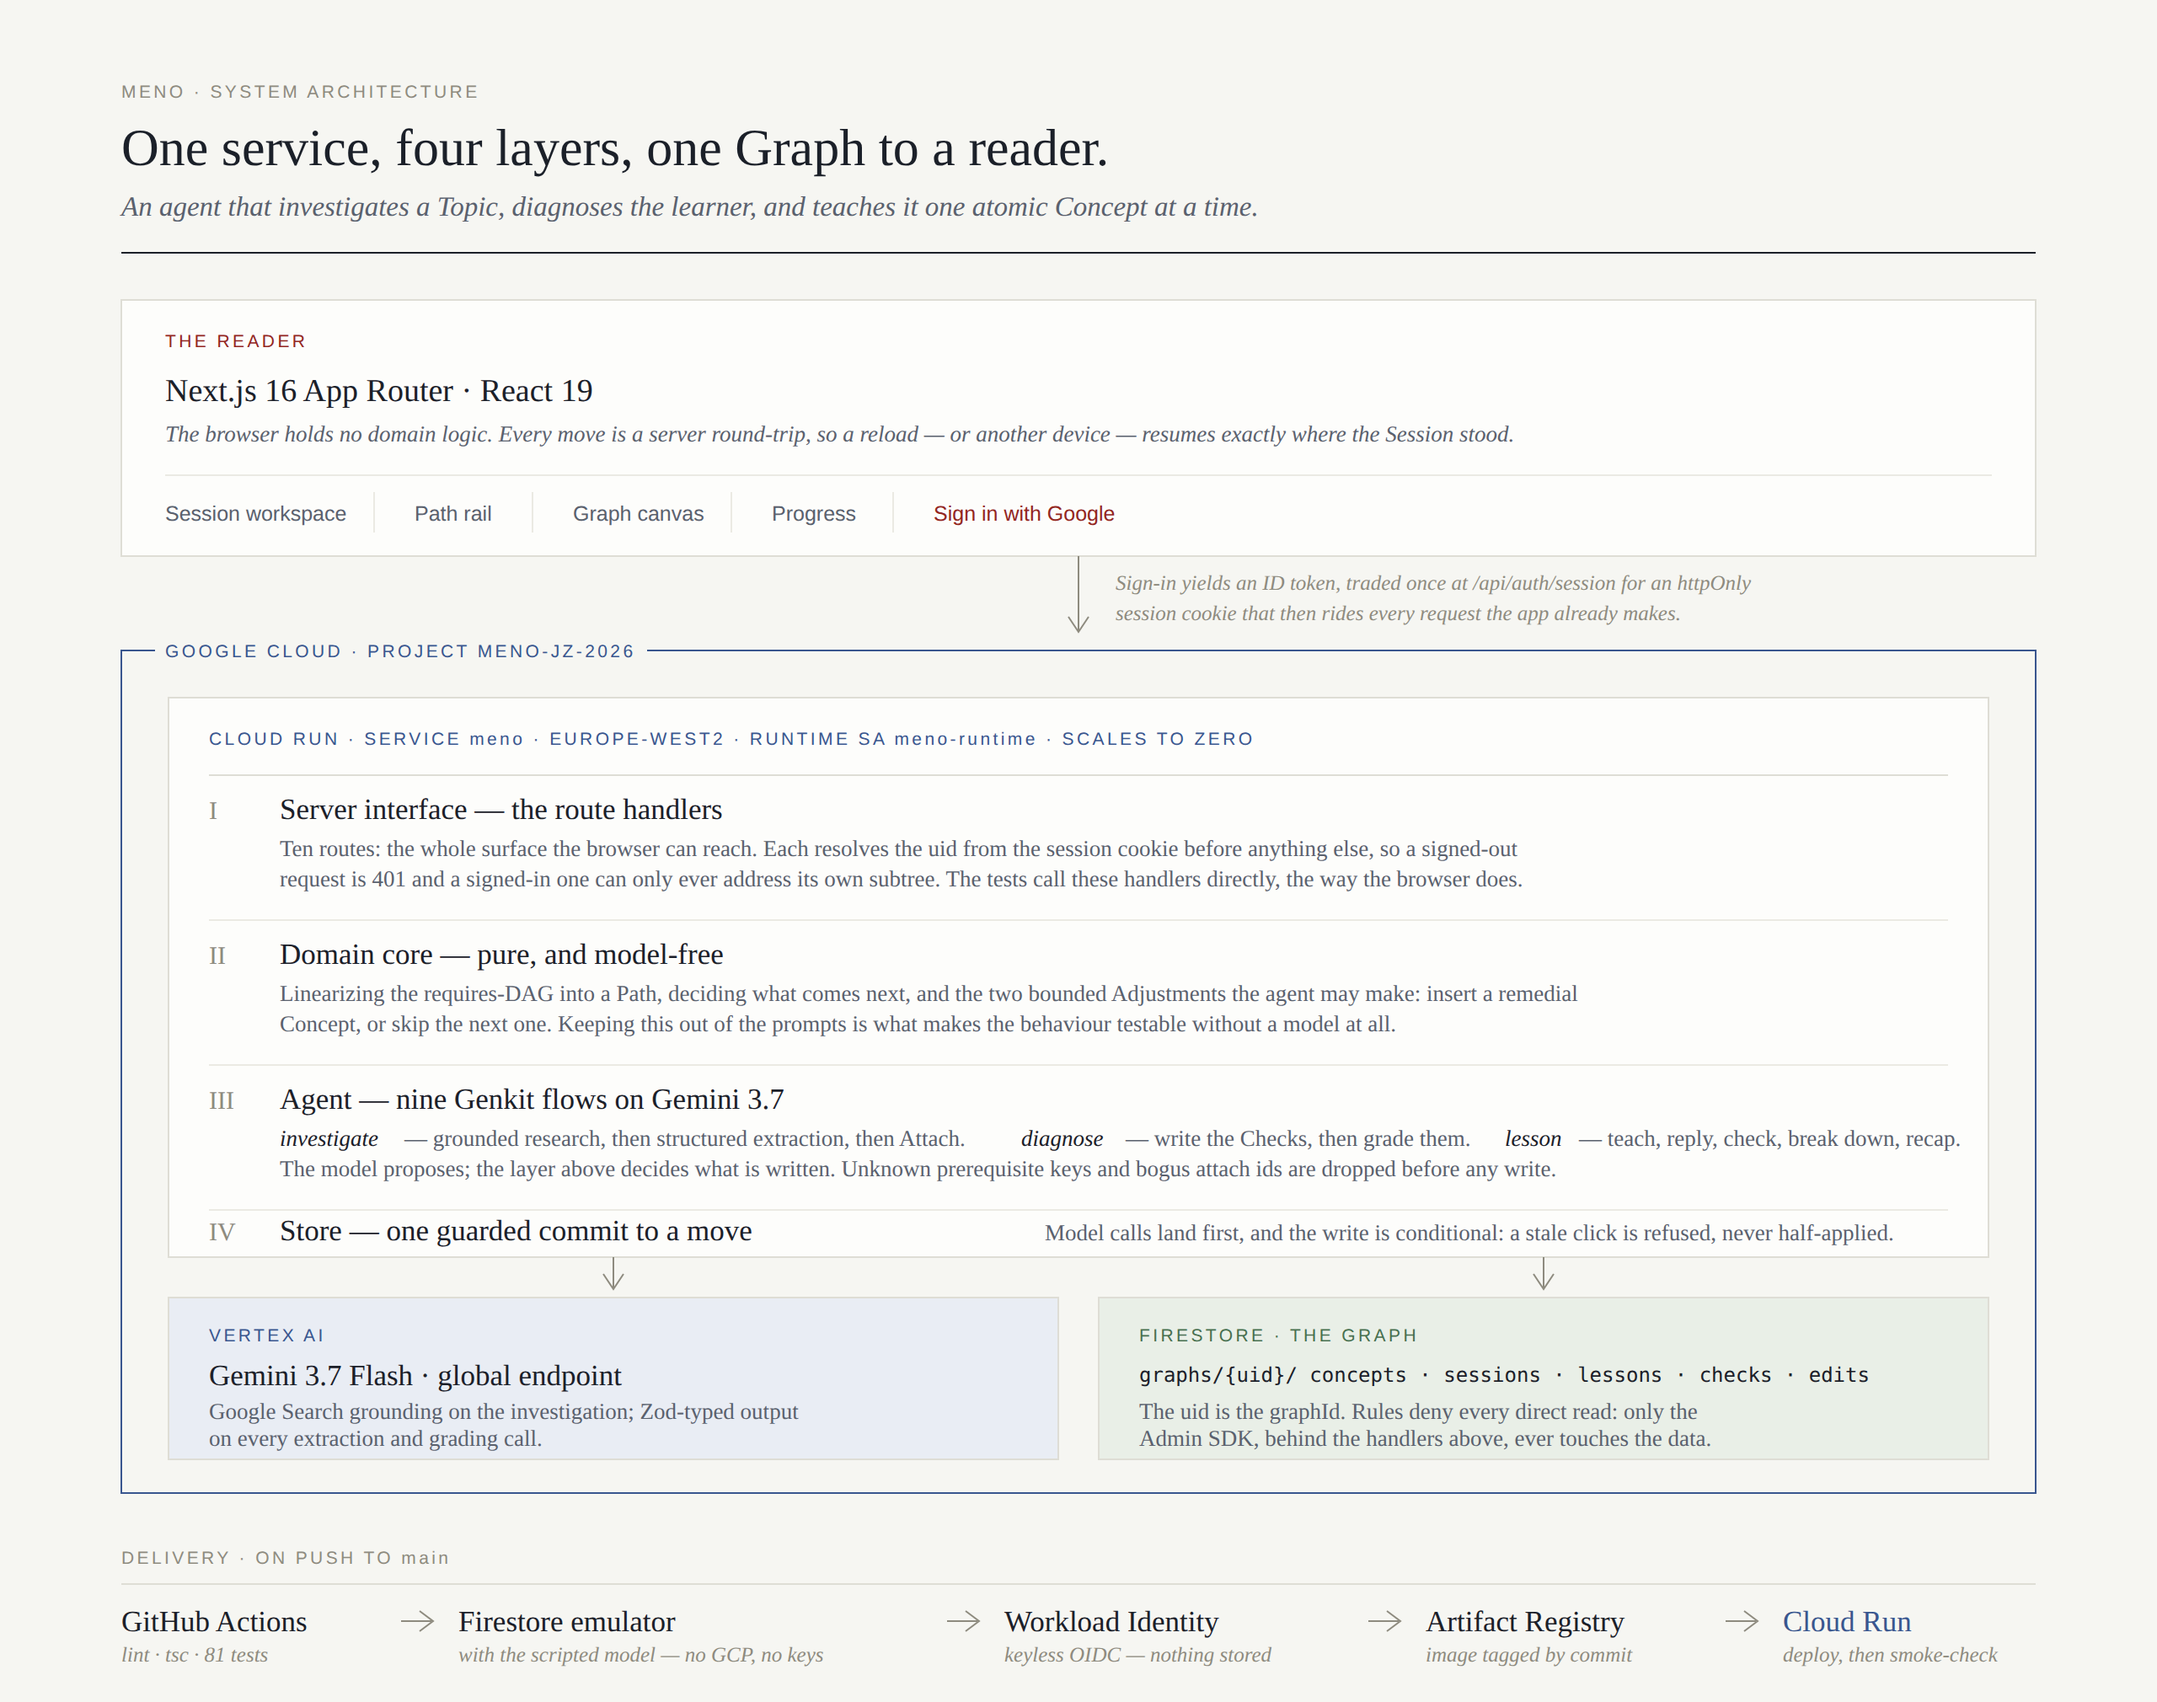
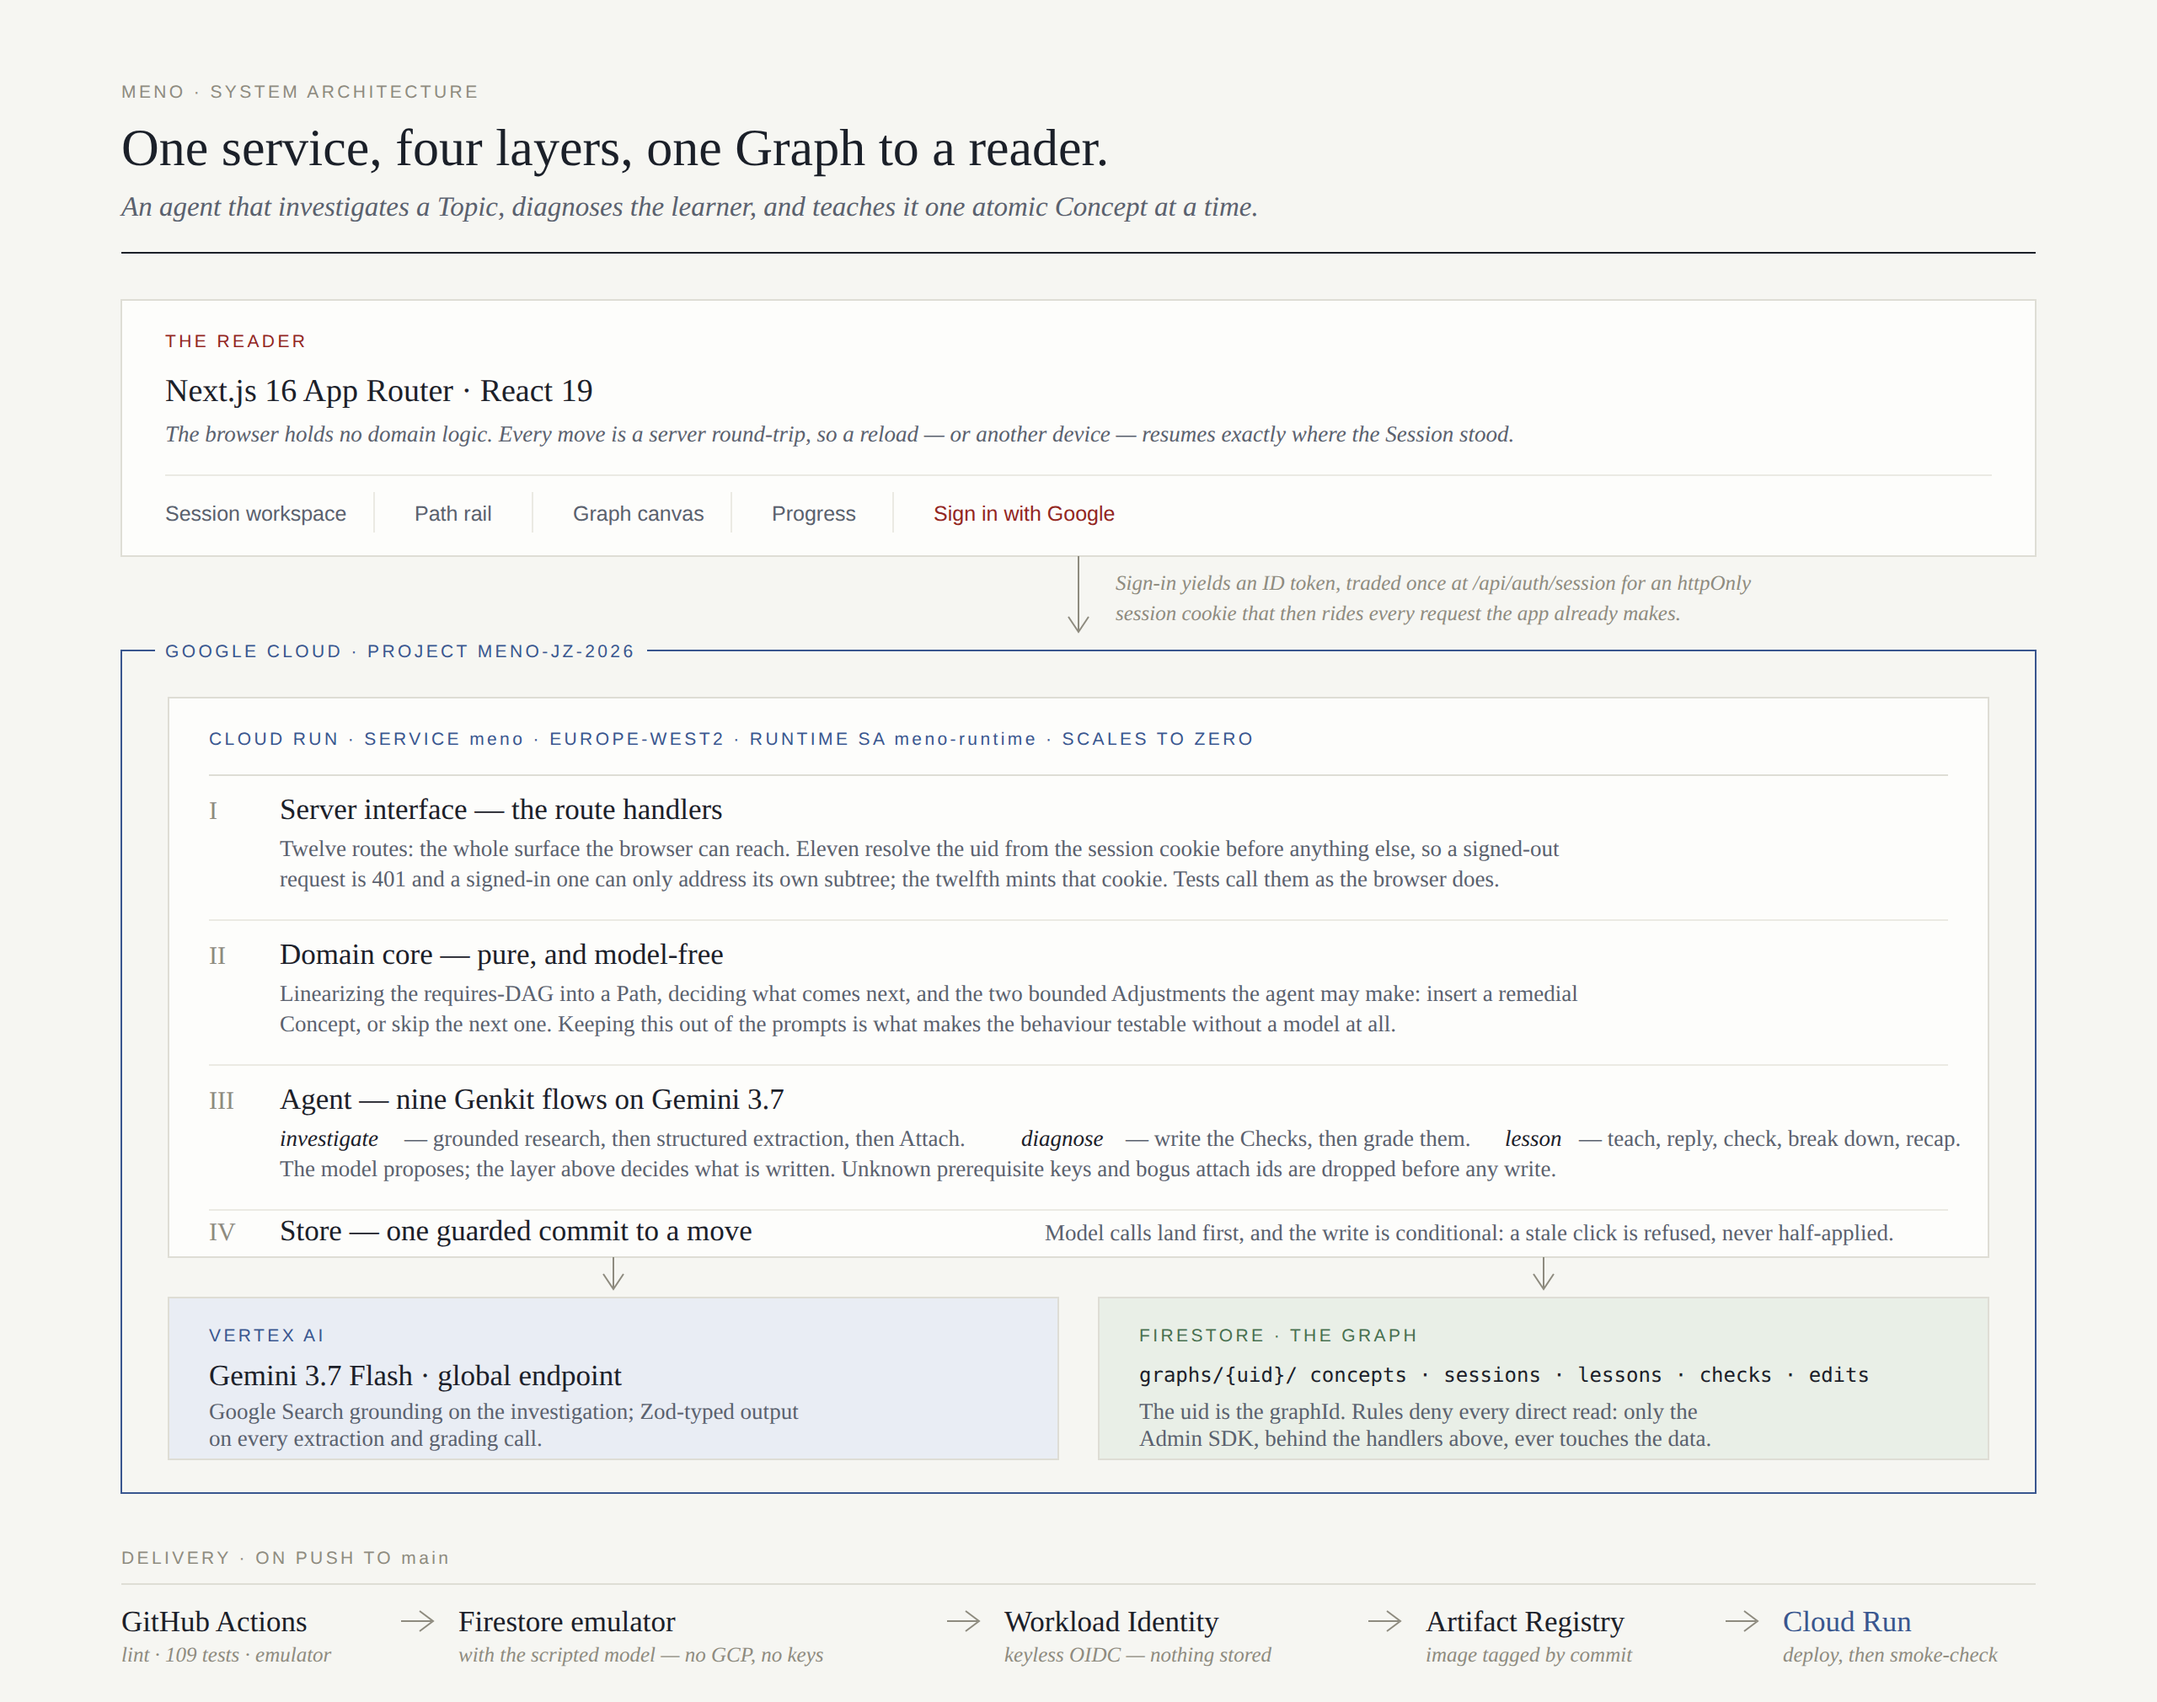
docs: update README and architecture documentation for clarity and accuracy

diff --git a/README.md b/README.md
@@ -128,7 +128,7 @@ npm run seed              # a Graph covering every UI state
 npm run seed -- --reset   # wipe it first
 ```
 
-That gives you two Sessions (one mid-Path, one complete), a remedial detour, both kinds of skip, Lessons with markdown and mathematics, a Check and an Edit — enough to exercise every screen without calling a model. It refuses to run unless it can reach an emulator, so it can never write to live Firestore.
+That gives you four Sessions (three in progress at different points, one complete), a remedial detour, both kinds of skip, Lessons with markdown and mathematics, a Check and an Edit — enough to exercise every screen without calling a model. It refuses to run unless it can reach an emulator, so it can never write to live Firestore.
 
 It fills the Graph called `demoUser`. To see it you can sign in as that
 reader without a Firebase Auth project at all — uncomment both `MENO_AUTH`
@@ -244,4 +244,4 @@ but restrict it to the Identity Toolkit API under Google Cloud console → APIs
 
 ## Status
 
-Early build — in progress. Current scope is Google sign-in with one graph per account, text-only topic input (file upload planned), and a bounded adaptive path (insert-remedial / skip-next). Cross-session graph merging, richer graph editing (merge nodes, manual edges), and a dedicated LLM-analysis layer over the edit audit log are explicit future work.
+Early build — in progress. Current scope is Google sign-in with one graph per account, text-only topic input (file upload planned), and a bounded adaptive path (insert-remedial / skip-next). Concepts found by different sessions are already reconciled as they are created — that is what *attaching* is — but the manual half is missing: merging two concepts you decide are the same, and drawing a prerequisite edge the agent didn't find. That, and a dedicated LLM-analysis layer over the edit audit log, are explicit future work.

diff --git a/docs/architecture.md b/docs/architecture.md
@@ -21,8 +21,9 @@ only the Admin SDK, behind the route handlers, ever touches the data.
 ## Layers
 
 **Server interface** (`src/app/api/**/route.ts`) — the whole surface the
-browser can reach. Each route resolves the uid from the session cookie before
-anything else: a signed-out request is 401 and writes nothing. Beyond that,
+browser can reach. Every one of them but `/api/auth/session`, which mints the
+cookie in the first place, resolves the uid from that cookie before anything
+else: a signed-out request is 401 and writes nothing. Beyond that,
 each route is one move in the domain: start a Session,
 answer the diagnostic, ask a question in a Lesson, request the mastery Check,
 answer it, move on, break it down, edit the Graph. Routes validate and
